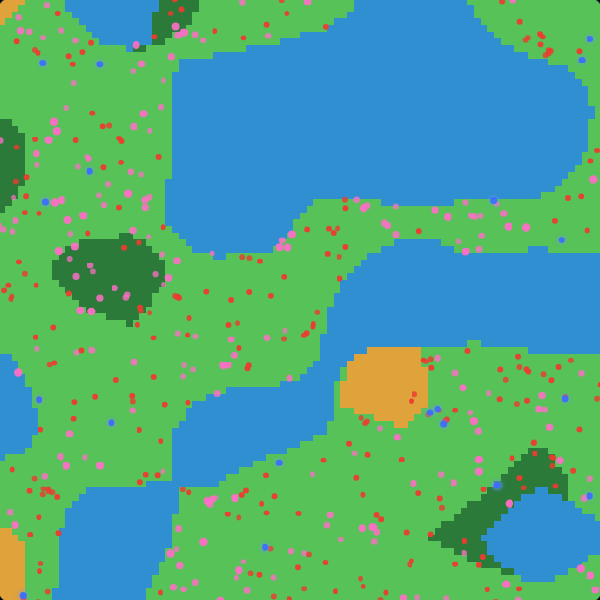
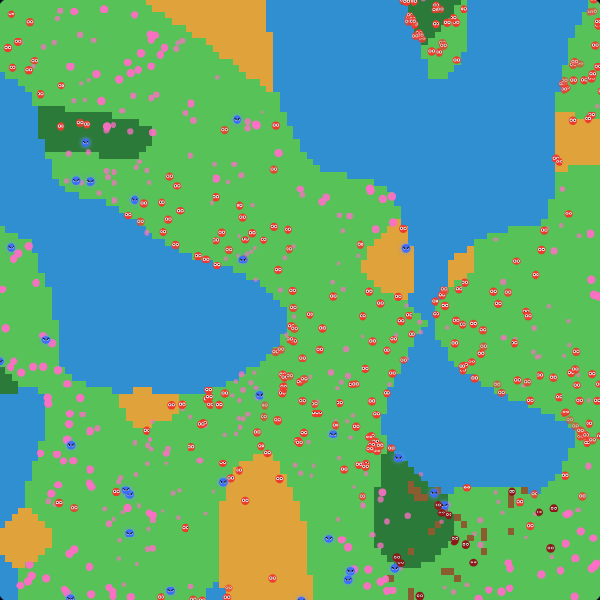
World: add Humans who build brown settlements (Elbie)
Third species. Humans (dark red) eat pink bushes like gooblets, but also
gather WOOD at the forest (navigating a forest-distance field) and spend it
to build BROWN settlement blocks. Rules per Elbie:
- A Human on a settlement is SAFE from Zappies (Zappies now hunt both
  gooblets AND humans, imperfect capture; a human on a settlement can't be
  caught). Humans flee toward the nearest settlement via a settlement-distance
  field when a Zappy closes in.
- No other creature can walk onto settlement tiles (settlements block
  gooblets/zappies like water; humans pass freely).
- Max settlements = live-humans x 2; if there are ever more (humans died
  off), the oldest excess settlements COLLAPSE back to land each step.
- Humans reproduce after eating 6 bushes.

Re-verified headlessly (world_proto3.js, 3/3 trials): lively perpetual
3-species coexistence over 9000 steps, zero extinctions, settlements tracking
the humans x2 cap. New "Drop Humans" tool, human + settlement counters and
legend entries, dark-red faced human sprites, brown settlement rendering.
Refreshed the landing thumbnail.

diff --git a/genesis/world/index.html b/genesis/world/index.html
@@ -5,7 +5,7 @@
 <meta name="description" content="A 2-D artificial-life world that grows and changes on its own: relaxation-labeled biomes (desert, plains, forest, water) where red Gooblets eat pink bushes and drink water while blue Zappies hunt them. Built with Elbie.">
 <style>
 :root{--bg:#04050b;--ink:#e8f0ff;--dim:#8a97b8;--line:#18213c;
- --water:#2f8fd0;--desert:#e0a23a;--plain:#57c257;--forest:#2c7a3a;--goob:#ee3b2f;--zap:#3b6cff;--bush:#ff6ec7}
+ --water:#2f8fd0;--desert:#e0a23a;--plain:#57c257;--forest:#2c7a3a;--goob:#ee3b2f;--zap:#3b6cff;--bush:#ff6ec7;--human:#8b1a1a;--settle:#8a5c30}
 *{box-sizing:border-box}
 body{margin:0;background:radial-gradient(1100px 700px at 50% -8%,#0e1226,var(--bg));color:var(--ink);
  font:15px/1.55 ui-sans-serif,system-ui;text-align:center}
@@ -26,7 +26,7 @@ h1{font:700 clamp(22px,4vw,36px)/1.1 ui-serif,Georgia,serif;margin:0 0 4px}
 .speedrow input[type=range]{width:190px;accent-color:#8fd0ff}
 .speedrow b{color:#8fd0ff;min-width:34px;display:inline-block;text-align:left}
 .counts{font:13px ui-monospace,monospace;color:var(--dim);margin:8px auto 2px}
-.counts b{font-size:15px} .cg{color:var(--goob)} .cz{color:var(--zap)} .cb{color:var(--bush)}
+.counts b{font-size:15px} .cg{color:var(--goob)} .cz{color:var(--zap)} .cb{color:var(--bush)} .ch{color:#cf5b54} .cs{color:#c9925a}
 #graph{width:100%;max-width:630px;height:64px;display:block;margin:6px auto 0;background:#070c18;border:1px solid var(--line);border-radius:8px}
 .legend{display:flex;flex-wrap:wrap;gap:6px 14px;justify-content:center;margin:12px auto 0;max-width:660px;
  font:12px ui-monospace,monospace;color:var(--dim)}
@@ -43,14 +43,16 @@ a{color:#8fd0ff;text-decoration:none}
 <p class="lede">A tiny 2-D world that <b>grows and changes on its own</b>. The land labels itself into
  <b>biomes</b> — desert, plains, forest, water — that drift and shift. The dumb little
  <b style="color:var(--goob)">Gooblets</b> munch the <b style="color:var(--bush)">pink bushes</b> and run to the water to
- <b>drink</b>… until the <b style="color:var(--zap)">Zappies</b> hunt them down. Watch it all rise and fall forever.
- <b>Click the world</b> to play god.</p>
+ <b>drink</b>… until the <b style="color:var(--zap)">Zappies</b> hunt them down. The
+ <b style="color:#cf5b54">Humans</b> chop wood to build <b style="color:#c9925a">brown settlements</b> they can hide in. Watch it all
+ rise and fall forever. <b>Click the world</b> to play god.</p>
 
 <canvas id="c" width="630" height="630"></canvas>
 
 <div class="tools" id="tools">
   <button data-tool="goob" class="on">🔴 Drop Gooblets</button>
   <button data-tool="zap">🔵 Drop Zappies</button>
+  <button data-tool="human">🟥 Drop Humans</button>
   <button data-tool="bush">🌸 Plant Bushes</button>
   <span class="sep"></span>
   <button data-tool="rain">🌧️ Rain</button>
@@ -60,7 +62,7 @@ a{color:#8fd0ff;text-decoration:none}
   <button id="reset">↺ New world</button>
 </div>
 <div class="speedrow">🐢 <input id="speed" type="range" min="0.25" max="6" step="0.25" value="1"> ⚡ speed <b id="speedval">1×</b></div>
-<div class="counts"><span class="cg">🔴 Gooblets <b id="ng">0</b></span> &nbsp;·&nbsp; <span class="cz">🔵 Zappies <b id="nz">0</b></span> &nbsp;·&nbsp; <span class="cb">🌸 Bushes <b id="nb">0</b></span> &nbsp;·&nbsp; <span id="clock" style="color:var(--dim)">day <b>0</b></span></div>
+<div class="counts"><span class="cg">🔴 Gooblets <b id="ng">0</b></span> &nbsp;·&nbsp; <span class="cz">🔵 Zappies <b id="nz">0</b></span> &nbsp;·&nbsp; <span class="ch">🟥 Humans <b id="nh">0</b></span> &nbsp;·&nbsp; <span class="cs">🏠 Settlements <b id="ns">0</b></span> &nbsp;·&nbsp; <span class="cb">🌸 Bushes <b id="nb">0</b></span> &nbsp;·&nbsp; <span id="clock" style="color:var(--dim)">day <b>0</b></span></div>
 <canvas id="graph" width="630" height="64"></canvas>
 
 <div class="legend">
@@ -68,9 +70,11 @@ a{color:#8fd0ff;text-decoration:none}
   <span><i class="sw" style="background:var(--desert)"></i>desert</span>
   <span><i class="sw" style="background:var(--plain)"></i>plains</span>
   <span><i class="sw" style="background:var(--forest)"></i>forest</span>
+  <span><i class="sw" style="background:var(--settle)"></i>settlement</span>
   <span><i class="dot" style="background:var(--bush)"></i>pink bush (food)</span>
   <span><i class="dot" style="background:var(--goob)"></i>Gooblet</span>
   <span><i class="dot" style="background:var(--zap)"></i>Zappy (hunter)</span>
+  <span><i class="dot" style="background:var(--human)"></i>Human (builder)</span>
 </div>
 
 <div class="note">
@@ -88,8 +92,14 @@ Too many Zappies and the Gooblets crash; then the Zappies starve and crash too, 
 <b>boom-and-bust</b> that never quite ends (a few new critters wander in from off-screen so the world never fully dies). A fun toy
 <i>ecosystem</i>, not real biology.
 <br><br>
-<b>Play god.</b> Pick a tool and click the map: drop 🔴 Gooblets or 🔵 Zappies, 🌸 plant Bushes, or change the weather —
-🌧️ Rain grows forest, ☀️ Drought spreads desert.
+<b>The Humans.</b> <b style="color:#cf5b54">Humans</b> (dark red) also eat the pink bushes, but they gather <b>wood</b> from the
+forest and spend it to build <b style="color:#c9925a">brown settlement blocks</b>. A Human standing on a settlement is <b>safe from
+the Zappies</b> (who hunt Humans too), and <b>no other creature can walk onto settlement tiles</b>. There can only be about
+<b>two settlement blocks per Human</b> — if there are ever too many (because Humans died off), the extra ones <b>collapse</b> back
+into plain land.
+<br><br>
+<b>Play god.</b> Pick a tool and click the map: drop 🔴 Gooblets, 🔵 Zappies or 🟥 Humans, 🌸 plant Bushes, or change the
+weather — 🌧️ Rain grows forest, ☀️ Drought spreads desert.
 </div>
 <p style="margin-top:14px"><a href="../critter/">← The Critter</a> · <a href="../">Living Simulators (Genesis hub)</a> · <a href="../../">the full portfolio</a></p>
 </div>
@@ -146,22 +156,39 @@ function waterDir(x,y){ let bd=wdAt(x,y),bx=0,by=0;
 const inWater=(x,y)=>biome[idx(Math.max(0,Math.min(GW-1,x|0)),Math.max(0,Math.min(GH-1,y|0)))]===WATER;
 const biomeAt=(x,y)=>biome[idx(Math.max(0,Math.min(GW-1,x|0)),Math.max(0,Math.min(GH-1,y|0)))];
 
+// ---------- settlements (brown, human-built) + forest/settlement distance fields ----------
+const settle=new Uint8Array(N); let settleList=[], sdirty=true;
+const cidx=(x,y)=>idx(Math.max(0,Math.min(GW-1,x|0)),Math.max(0,Math.min(GH-1,y|0)));
+const isSettle=(x,y)=>settle[cidx(x,y)]===1;
+const fdist=new Int16Array(N), sdist=new Int16Array(N);
+function bfsFrom(src,out,maxd){ const Q=[]; for(let i=0;i<N;i++){ if(src(i)){out[i]=0;Q.push(i);} else out[i]=9999; }
+  let h=0; while(h<Q.length){ const i=Q[h++]; const x=i%GW,y=(i/GW)|0,d=out[i]; if(d>=maxd)continue;
+    const p=(nx,ny)=>{ if(nx<0||ny<0||nx>=GW||ny>=GH)return; const j=idx(nx,ny); if(out[j]>d+1){out[j]=d+1;Q.push(j);} };
+    p(x-1,y);p(x+1,y);p(x,y-1);p(x,y+1); } }
+const computeFDist=()=>bfsFrom(i=>biome[i]===FOREST,fdist,24);
+const computeSDist=()=>bfsFrom(i=>settle[i]===1,sdist,24);
+const fdAt=(x,y)=>fdist[cidx(x,y)], sdAt=(x,y)=>sdist[cidx(x,y)];
+function gradDir(x,y,field){ let bd=field(x,y),bx=0,by=0; for(const [dx,dy] of [[1,0],[-1,0],[0,1],[0,-1],[1,1],[1,-1],[-1,1],[-1,-1]]){ const w=field(x+dx,y+dy); if(w<bd){bd=w;bx=dx;by=dy;} } const l=Math.hypot(bx,by)||1; return [bx/l,by/l]; }
+
 // ---------- pink bushes (gooblet food) ----------
 const P={ gMeta:0.008,gThirst:0.0045,gHunger:1.5,gDrink:0.40,gRepro:2.4,gReproP:0.06,gMaxAge:1100,gStartE:1.2,gStartW:1.0,gSpeed:1.0,gEatGain:2.6,gFlee:5,
   zPrey:0.80,zMeta:0.028,zRepro:3.0,zReproP:0.05,zMaxAge:900,zStart:1.2,zSpeed:1.05,zVision:5,zEat:1.1,zEatP:0.20,
-  gCap:900,zCap:150, NB:420, bushRegrow:0.011 };
+  gCap:900,zCap:150, NB:420, bushRegrow:0.011,
+  hMeta:0.006,hHunger:1.4,hEatGain:2.4,hMaxAge:1500,hStartE:1.4,hSpeed:0.95,hFlee:7,hWoodRate:0.06,hBuild:1.0,hReproAte:6,hCap:70 };
 let bushes=[];
-const goodBushCell=(x,y)=>{ const b=biomeAt(x,y); return b===PLAIN||b===FOREST; };
+const goodBushCell=(x,y)=>{ const b=biomeAt(x,y); return (b===PLAIN||b===FOREST) && !isSettle(x,y); };
 function placeBush(){ for(let t=0;t<40;t++){ const x=rnd()*GW,y=rnd()*GH; if(goodBushCell(x,y)) return {x,y,food:0.3+rnd()*0.7}; } return null; }
 function initBushes(){ bushes=[]; while(bushes.length<P.NB){ const b=placeBush(); if(b)bushes.push(b); else break; } }
 function stepBushes(){ for(const b of bushes){ b.food=Math.min(1,b.food+P.bushRegrow); if(!goodBushCell(b.x,b.y)){ const nb=placeBush(); if(nb){b.x=nb.x;b.y=nb.y;b.food=nb.food;} } }
   while(bushes.length<P.NB){ const b=placeBush(); if(b)bushes.push(b); else break; } }
 
 // ---------- creatures ----------
-let goob=[], zap=[];
+let goob=[], zap=[], human=[];
 function spawnGoob(x,y,E,W){ if(goob.length<P.gCap) goob.push({x,y,E,W:W==null?P.gStartW:W,age:0,ate:0}); }
 function spawnZap(x,y,E){ if(zap.length<P.zCap) zap.push({x,y,E,age:0,ate:0}); }
-function clampMove(c,nx,ny){ if(nx<0||nx>=GW||ny<0||ny>=GH||inWater(nx,ny)) return; c.x=nx;c.y=ny; }
+function spawnHuman(x,y,E){ if(human.length<P.hCap) human.push({x,y,E,wood:0,age:0,ate:0}); }
+function clampMove(c,nx,ny){ if(nx<0||nx>=GW||ny<0||ny>=GH||inWater(nx,ny)||isSettle(nx,ny)) return; c.x=nx;c.y=ny; } // gooblets/zappies: water + settlements block
+function clampMoveH(c,nx,ny){ if(nx<0||nx>=GW||ny<0||ny>=GH||inWater(nx,ny)) return; c.x=nx;c.y=ny; }              // humans: only water blocks
 function buildHash(list,cell){ const h=new Map(); for(let i=0;i<list.length;i++){ const c=list[i]; const k=(c.x/cell|0)+','+(c.y/cell|0); (h.get(k)||h.set(k,[]).get(k)).push(i);} return h; }
 function nearestIdx(x,y,list,h,cell){ let bd=1e9,bi=-1; const cx=x/cell|0,cy=y/cell|0;
   for(let a=-1;a<=1;a++)for(let b=-1;b<=1;b++){ const arr=h.get((cx+a)+','+(cy+b)); if(!arr)continue;
@@ -183,34 +210,64 @@ function stepGoob(){ const next=[]; const zh=buildHash(zap,P.gFlee), bh=buildHas
     next.push(g);
   } goob=next;
 }
-function stepZap(){ const next=[]; const gh=buildHash(goob,P.zVision), eaten=new Set();
-  for(const z of zap){ z.age++; let tx=null,ty=null,bd=P.zVision*P.zVision,ti=-1; const cx=z.x/P.zVision|0,cy=z.y/P.zVision|0;
-    for(let a=-1;a<=1;a++)for(let b=-1;b<=1;b++){ const arr=gh.get((cx+a)+','+(cy+b)); if(!arr)continue; for(const gi of arr){ if(eaten.has(gi))continue; const g=goob[gi]; const d=(g.x-z.x)**2+(g.y-z.y)**2; if(d<bd){bd=d;tx=g.x;ty=g.y;ti=gi;} } }
+function stepZap(){ const next=[]; const gh=buildHash(goob,P.zVision), hh=buildHash(human,P.zVision); const eatG=new Set(), eatH=new Set();
+  for(const z of zap){ z.age++; let tx=null,ty=null,bd=P.zVision*P.zVision, kind=null, ki=-1; const cx=z.x/P.zVision|0,cy=z.y/P.zVision|0;
+    const scan=(hash,list,isH)=>{ for(let a=-1;a<=1;a++)for(let b=-1;b<=1;b++){ const arr=hash.get((cx+a)+','+(cy+b)); if(!arr)continue;
+      for(const i of arr){ if(isH){ if(eatH.has(i)||isSettle(list[i].x,list[i].y))continue; } else if(eatG.has(i))continue; const c=list[i]; const d=(c.x-z.x)**2+(c.y-z.y)**2; if(d<bd){bd=d;tx=c.x;ty=c.y;kind=isH?'h':'g';ki=i;} } } };
+    scan(gh,goob,false); scan(hh,human,true);
     let dx,dy; if(tx!==null){ const d=Math.hypot(tx-z.x,ty-z.y)||1; dx=(tx-z.x)/d*P.zSpeed; dy=(ty-z.y)/d*P.zSpeed; } else { const a=rnd()*6.283; dx=Math.cos(a)*P.zSpeed; dy=Math.sin(a)*P.zSpeed; }
     clampMove(z,z.x+dx,z.y+dy);
-    if(ti>=0){ const g=goob[ti]; if((g.x-z.x)**2+(g.y-z.y)**2<P.zEat*P.zEat && rnd()<P.zEatP){ eaten.add(ti); z.E+=P.zPrey; z.ate++; } }
+    if(ki>=0){ const prey=kind==='h'?human[ki]:goob[ki]; if((prey.x-z.x)**2+(prey.y-z.y)**2<P.zEat*P.zEat && !(kind==='h'&&isSettle(prey.x,prey.y)) && rnd()<P.zEatP){ if(kind==='h')eatH.add(ki); else eatG.add(ki); z.E+=P.zPrey; z.ate++; } }
     z.E-=P.zMeta; if(z.E<=0||z.age>P.zMaxAge) continue;
-    if(z.ate>=5){ z.ate=0; z.E*=0.7; spawnZap(z.x+(rnd()-0.5),z.y+(rnd()-0.5),P.zStart); } // 5 gooblets -> a baby
+    if(z.ate>=5){ z.ate=0; z.E*=0.7; spawnZap(z.x+(rnd()-0.5),z.y+(rnd()-0.5),P.zStart); } // 5 prey (gooblet or human) -> a baby
     next.push(z);
-  } zap=next; if(eaten.size) goob=goob.filter((_,i)=>!eaten.has(i));
+  } zap=next; if(eatG.size) goob=goob.filter((_,i)=>!eatG.has(i)); if(eatH.size) human=human.filter((_,i)=>!eatH.has(i));
+}
+function collapseSettlements(){ const max=human.length*2; while(settleList.length>max){ const i=settleList.shift(); settle[i]=0; sdirty=true; } } // max = humans x2, excess collapses
+function stepHuman(){ const next=[]; const zh=buildHash(zap,P.hFlee), bh=buildHash(bushes,6); const max=human.length*2;
+  for(const m of human){ m.age++; m.E-=P.hMeta;
+    const onS=isSettle(m.x,m.y);
+    const [zi,zd]=nearestIdx(m.x,m.y,zap,zh,P.hFlee);
+    let dx=0,dy=0,moved=false;
+    if(!onS && zi>=0 && zd<(P.hFlee*0.8)**2){                                        // danger: run to nearest settlement, else flee
+      if(sdAt(m.x,m.y)<900){ const d=gradDir(m.x,m.y,sdAt); dx=d[0];dy=d[1]; }
+      else { const z=zap[zi]; const l=Math.hypot(m.x-z.x,m.y-z.y)||1; dx=(m.x-z.x)/l; dy=(m.y-z.y)/l; } moved=true;
+    } else if(m.E<P.hHunger){ const [bi]=nearestIdx(m.x,m.y,bushes,bh,6); if(bi>=0){ const b=bushes[bi]; const l=Math.hypot(b.x-m.x,b.y-m.y)||1; dx=(b.x-m.x)/l; dy=(b.y-m.y)/l; moved=true; } } // hungry -> bush
+    else if(m.wood<P.hBuild){ if(fdAt(m.x,m.y)<900){ const d=gradDir(m.x,m.y,fdAt); dx=d[0];dy=d[1]; moved=true; } }              // need wood -> forest
+    if(!moved){ const a=rnd()*6.283; dx=Math.cos(a); dy=Math.sin(a); }
+    clampMoveH(m,m.x+dx*P.hSpeed,m.y+dy*P.hSpeed);
+    if(biomeAt(m.x,m.y)===FOREST || fdAt(m.x,m.y)<=1) m.wood+=P.hWoodRate;             // chop wood at the forest
+    const [bi2,bd2]=nearestIdx(m.x,m.y,bushes,bh,6);
+    if(bi2>=0 && bd2<1.6){ const b=bushes[bi2]; if(b.food>0.20){ m.E+=b.food*P.hEatGain; b.food=0; m.ate++; } } // eat a bush
+    if(m.wood>=P.hBuild && settleList.length<max){ const ci=cidx(m.x,m.y); if(biome[ci]!==WATER && settle[ci]===0){ settle[ci]=1; settleList.push(ci); m.wood-=P.hBuild; sdirty=true; } } // build a settlement
+    if(m.E<=0||m.age>P.hMaxAge) continue;
+    if(m.ate>=P.hReproAte){ m.ate=0; m.E*=0.7; spawnHuman(m.x+(rnd()-0.5),m.y+(rnd()-0.5),P.hStartE); } // 6 bushes -> a baby
+    next.push(m);
+  } human=next;
 }
 function immigrate(){
   if(goob.length<45 && rnd()<0.6){ let n=0,t=0; while(n<3&&t<80){t++; const x=rnd()*GW,y=rnd()*GH; if(goodBushCell(x,y)){spawnGoob(x,y,P.gStartE,P.gStartW);n++;}} }
   if(zap.length<8 && rnd()<0.3){ let t=0; while(t<80){t++; const x=rnd()*GW,y=rnd()*GH; if(!inWater(x,y)){spawnZap(x,y,P.zStart);break;}} }
+  if(human.length<5 && rnd()<0.25){ let t=0; while(t<80){t++; const x=rnd()*GW,y=rnd()*GH; if(!inWater(x,y)&&!isSettle(x,y)){spawnHuman(x,y,P.hStartE);break;}} }
 }
 
 // ---------- world setup ----------
 let day=0;
 function newWorld(){ elevC=coarse(16); moistC=coarse(20); computeElev(); computeMoist(); initBiomes();
-  for(let k=0;k<10;k++) relaxBiomes(); computeWDist(); initBushes();
-  goob=[]; zap=[]; day=0; hist.length=0;
+  for(let k=0;k<10;k++) relaxBiomes(); computeWDist(); computeFDist(); computeSDist(); initBushes();
+  settle.fill(0); settleList=[]; sdirty=true;
+  goob=[]; zap=[]; human=[]; day=0; hist.length=0;
   let p=0,tr=0; while(p<250&&tr<8000){tr++;const x=rnd()*GW,y=rnd()*GH;if(!inWater(x,y)){spawnGoob(x,y,P.gStartE,P.gStartW);p++;}}
   p=0;tr=0; while(p<20&&tr<8000){tr++;const x=rnd()*GW,y=rnd()*GH;if(!inWater(x,y)){spawnZap(x,y,P.zStart);p++;}}
+  p=0;tr=0; while(p<14&&tr<8000){tr++;const x=rnd()*GW,y=rnd()*GH;if(!inWater(x,y)){spawnHuman(x,y,P.hStartE);p++;}}
 }
 
 // ---------- rendering ----------
 function drawTerrain(){ const d=img.data;
-  for(let i=0;i<N;i++){ const b=biome[i]; const o=i*4; d[o]=BCOL[b][0]; d[o+1]=BCOL[b][1]; d[o+2]=BCOL[b][2]; d[o+3]=255; }
+  for(let i=0;i<N;i++){ const o=i*4;
+    if(settle[i]){ d[o]=138; d[o+1]=92; d[o+2]=48; }                                  // brown settlement block
+    else { const b=biome[i]; d[o]=BCOL[b][0]; d[o+1]=BCOL[b][1]; d[o+2]=BCOL[b][2]; }
+    d[o+3]=255; }
   octx.putImageData(img,0,0); ctx.drawImage(off,0,0,cv.width,cv.height);
 }
 function drawBushes(){ for(const b of bushes){ if(b.food<0.10)continue; const x=b.x*SC,y=b.y*SC, r=SC*(0.28+0.32*b.food);
@@ -239,6 +296,13 @@ function drawCreatures(){
     ctx.moveTo(x-ex-er*0.9,ey-er*1.15); ctx.lineTo(x-ex+er*0.7,ey-er*0.35);
     ctx.moveTo(x+ex+er*0.9,ey-er*1.15); ctx.lineTo(x+ex-er*0.7,ey-er*0.35); ctx.stroke();
   }
+  // HUMANS — dark red, calm faces; build brown settlements and hide on them
+  for(const m of human){ const x=m.x*SC,y=m.y*SC, r=SC*0.62;
+    ctx.fillStyle='#8b1a1a'; ctx.beginPath(); ctx.arc(x,y,r,0,7); ctx.fill();
+    const ex=r*0.4, ey=y-r*0.08, er=r*0.3, pr=er*0.55;
+    ctx.fillStyle='#fff'; twoDots(x-ex,x+ex,ey,er);
+    ctx.fillStyle='#160a0a'; twoDots(x-ex,x+ex,ey,pr);
+  }
 }
 const gcv=document.getElementById('graph'), ggx=gcv.getContext('2d'); const hist=[];
 function drawGraph(){ const W=gcv.width,H=gcv.height; ggx.clearRect(0,0,W,H); if(hist.length<2)return;
@@ -251,8 +315,9 @@ function drawGraph(){ const W=gcv.width,H=gcv.height; ggx.clearRect(0,0,W,H); if
 // ---------- loop + interaction ----------
 let playing=true, frame=0, tool='goob', simSpeed=1, acc=0;
 function simStep(){ frame++; day++;
-  stepBushes(); stepGoob(); stepZap(); immigrate();
-  if(frame%4===0){ relaxBiomes(); computeWDist(); }
+  stepBushes(); stepGoob(); stepZap(); stepHuman(); collapseSettlements(); immigrate();
+  if(frame%4===0){ relaxBiomes(); computeWDist(); computeFDist(); }
+  if(sdirty){ computeSDist(); sdirty=false; }
   if(frame%60===0) driftMoist(0.04);
   if(frame%6===0){ hist.push({g:goob.length,z:zap.length}); if(hist.length>210) hist.shift(); }
 }
@@ -261,6 +326,8 @@ function loop(){
   drawTerrain(); drawBushes(); drawCreatures();
   document.getElementById('ng').textContent=goob.length;
   document.getElementById('nz').textContent=zap.length;
+  document.getElementById('nh').textContent=human.length;
+  document.getElementById('ns').textContent=settleList.length;
   document.getElementById('nb').textContent=bushes.filter(b=>b.food>0.35).length;
   document.getElementById('clock').innerHTML='day <b>'+day+'</b>';
   drawGraph();
@@ -273,6 +340,7 @@ function bumpMoist(gxc,gyc,amt){ const cx=Math.round(gxc/moistC.scale), cy=Math.
 function applyTool(gxc,gyc){
   if(tool==='goob'){ for(let k=0;k<8;k++){const x=gxc+(rnd()-0.5)*4,y=gyc+(rnd()-0.5)*4; if(!inWater(x,y)) spawnGoob(x,y,P.gStartE+0.4,1.0);} }
   else if(tool==='zap'){ for(let k=0;k<4;k++){const x=gxc+(rnd()-0.5)*4,y=gyc+(rnd()-0.5)*4; if(!inWater(x,y)) spawnZap(x,y,P.zStart+0.4);} }
+  else if(tool==='human'){ for(let k=0;k<3;k++){const x=gxc+(rnd()-0.5)*4,y=gyc+(rnd()-0.5)*4; if(!inWater(x,y)) spawnHuman(x,y,P.hStartE+0.3);} }
   else if(tool==='bush'){ for(let k=0;k<6;k++){const x=gxc+(rnd()-0.5)*5,y=gyc+(rnd()-0.5)*5; if(goodBushCell(x,y)) bushes.push({x,y,food:0.8});} }
   else if(tool==='rain'){ bumpMoist(gxc,gyc,+0.28); }
   else if(tool==='drought'){ bumpMoist(gxc,gyc,-0.28); }